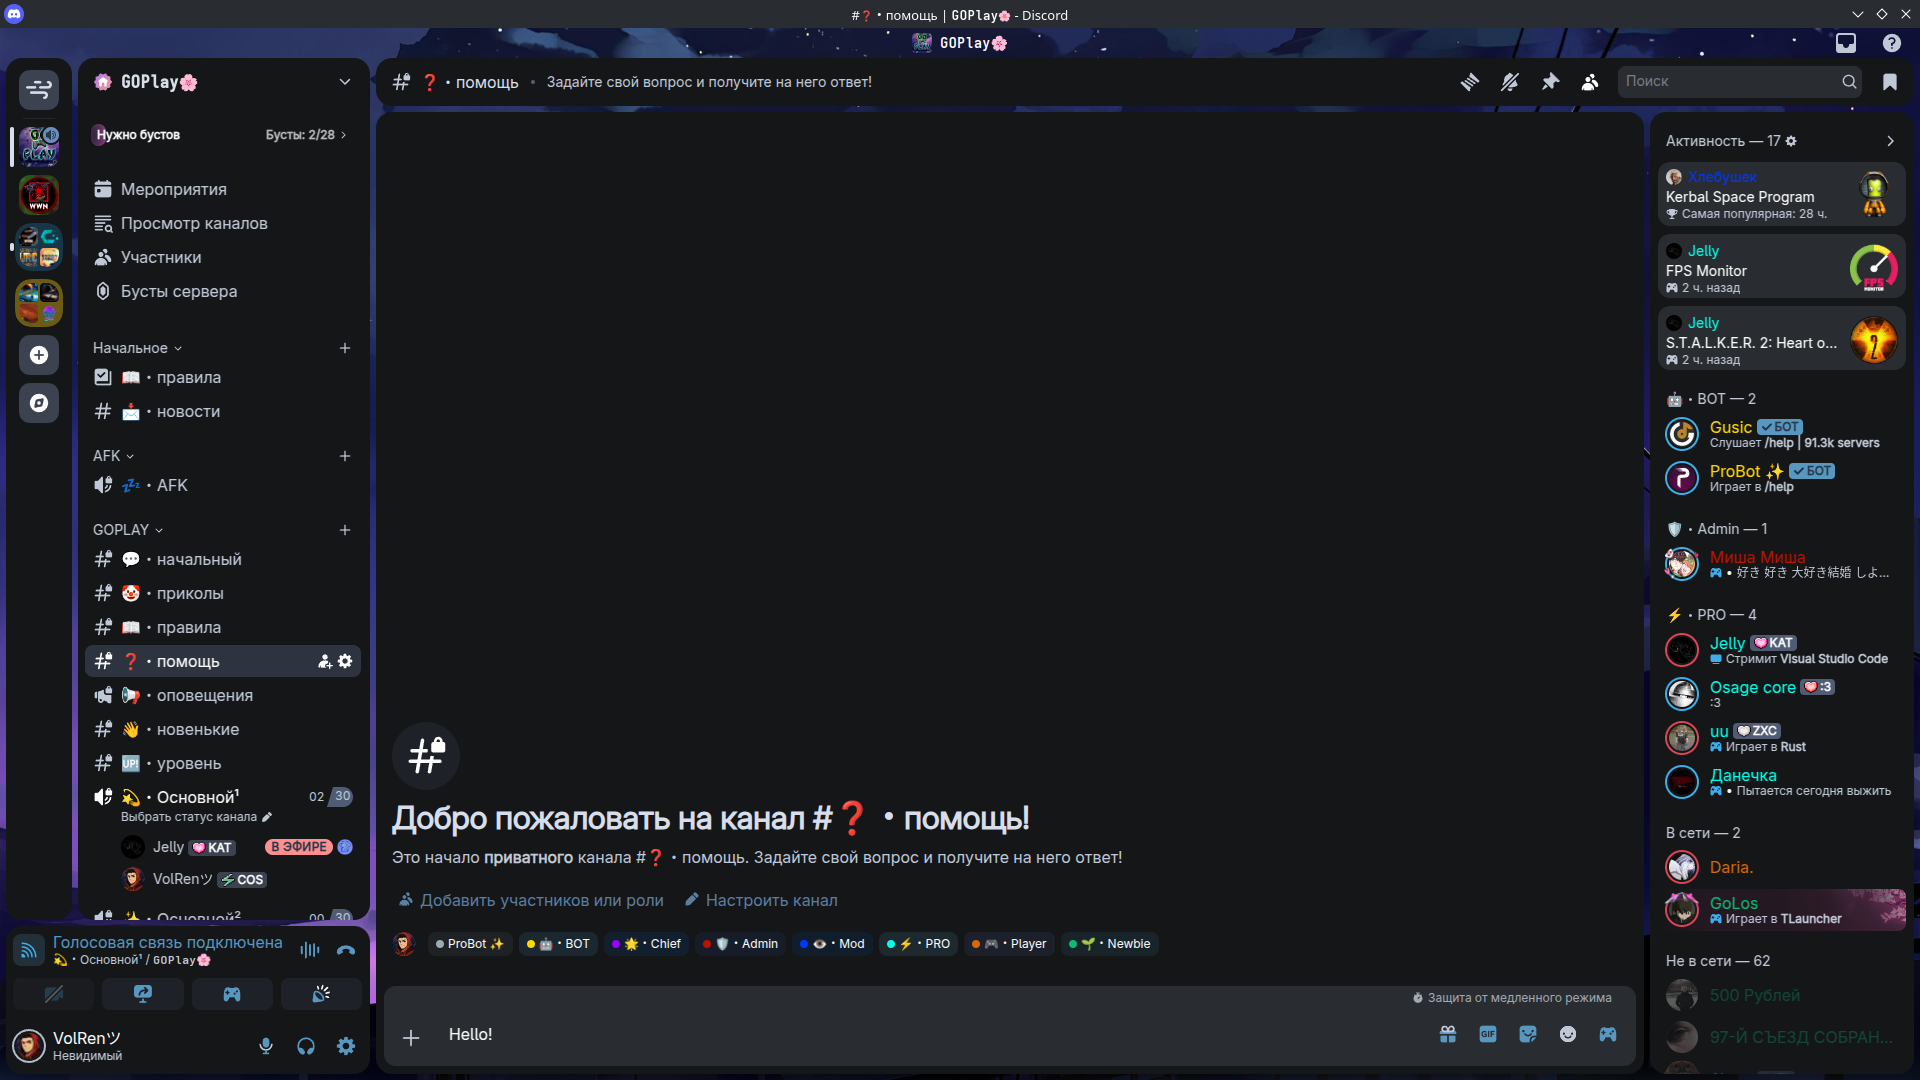
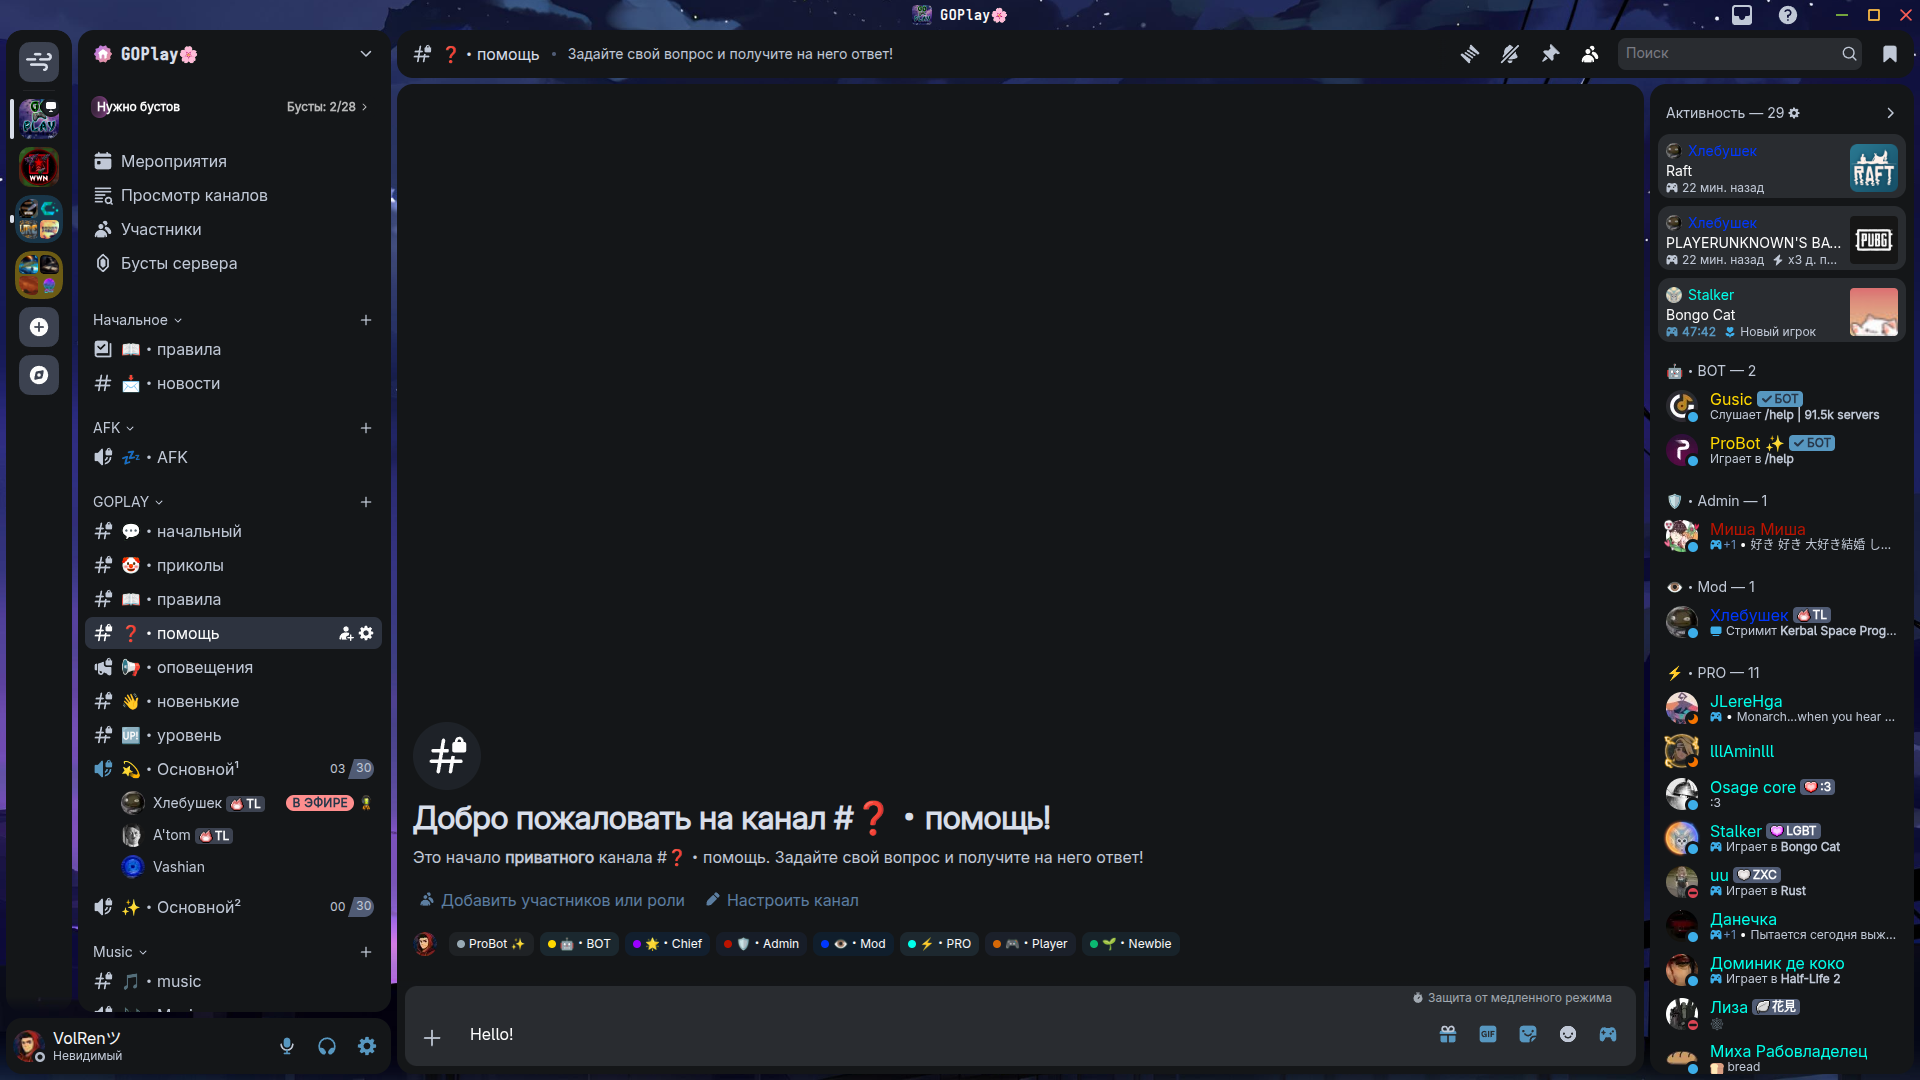
Update

Changed region(s): [[0.0, 0.0, 1.0, 1.0], [0.125, 0.1222, 0.1562, 0.1528], [0.0, 0.9472, 0.0312, 0.9778]]

diff --git a/build/base.css b/build/base.css
@@ -93,7 +93,7 @@ body {
     .wrapper_d852db,
     .wrapper_d852db > .wrapper_fc8177,
     #vc-spotify-player {
-        background: none;
+    background: none;
     }
     .scroller__629e4 {
         margin-bottom: 0;
@@ -659,7 +659,7 @@ body {
         --status-danger: var(--red-2);
         --status-danger-background: var(--red-3);
         --status-danger-text: var(--white);
-        --status-dnd: var(--dnd); /* server profiles */
+        --status-dnd: var(--dnd);
         --status-idle: var(--idle);
         --status-offline: var(--offline);
         --status-online: var(--online);
@@ -999,26 +999,6 @@ body {
         }
         .flash__03436[data-flash=true] {
             background: var(--background-message-highlight);
-        }
-        /* Status indicators */
-        rect[fill='#82838b'], .status_a423bd[style='background-color: rgb(130, 131, 139);'] {
-            fill: var(--offline);
-            background-color: var(--offline) !important;
-        }
-        rect[fill='#43a25a'], path[fill='#43a25a'], .vc-platform-indicator > svg[fill="#43a25a"], .status_a423bd[style='background-color: rgb(67, 162, 90);'], path[fill='var(--status-positive)'] {
-            fill: var(--online);
-            background-color: var(--online) !important;
-        }
-        rect[fill='#ca9654'], .vc-platform-indicator > svg[fill='#ca9654'], .status_a423bd[style='background-color: rgb(202, 150, 84);'] {
-            fill: var(--idle);
-            background-color: var(--idle) !important;
-        }
-        rect[fill='#d83a42'], .vc-platform-indicator > svg[fill='#d83a42'], .status_a423bd[style='background-color: rgb(216, 58, 66);'] {
-            fill: var(--dnd);
-            background-color: var(--dnd) !important;
-        }
-        rect[fill='#9147ff'] {
-            fill: var(--streaming);
         }
         .radioBar__1bda4[style='--radio-bar-accent-color: var(--yellow-360); padding: 10px;'] {
             --radio-bar-accent-color: var(--yellow-2) !important;

diff --git a/RadialStatus.css b/RadialStatus.css
@@ -6,6 +6,11 @@
     --rs-medium-width: 3px;
     --rs-large-width: 4px;
     --rs-avatar-shape: 50%;
+
+    --online: oklch(0.57 0.2344 257.2136);
+    --dnd: oklch(0.56 0.1894 22.5);
+    --idle: oklch(0.84 0.1653 82.59);
+    --offline: oklch(0.79 0.0215 261.76);
 }
 #app-mount .wrapper__44b0c {
     border-radius: var(--rs-avatar-shape);
@@ -68,7 +73,6 @@
     &[fill='#43a25a'] { stroke: var(--online); }
     &[fill='#ca9654'] { stroke: var(--idle); }
     &[fill='#d83a42'] { stroke: var(--dnd); }
-    &[fill='#593695'], &[mask*='streaming'], &[fill*='var(--status-purple'] { stroke: var(--streaming); }
     &[fill='#82838b'] { stroke: var(--offline); }
     &[x='16'] { width: 24px; height: 24px; }
     &[x='28'] { width: 40px; height: 40px; overflow: visible; }

diff --git a/extras/Echo.css b/extras/Echo.css
@@ -2,7 +2,7 @@
  * @name Echo
  * @description Discord theme Echo
  * @author VolRen
- * @version 4.1.0
+ * @version 5.0.0
  * @invite 5CpUtAEhdD
  * @website https://github.com/VolRencs/DisBreeze
  * @source https://github.com/VolRencs/DisBreeze/blob/Main/colors/DisEcho.css
@@ -10,7 +10,6 @@
  * @authorLink https://github.com/VolRencs
  */
 @import url('https://volrencs.github.io/DisBreeze/colors/DisEcho.css');
-@import url('https://volrencs.github.io/DisBreeze/build/RStatus.css');
 
 body {
     --background-image-url: url('https://volrencs.github.io/DisBreeze/assets/background/Echo.png'); /* Замените на свой фон */

diff --git a/extras/Cachy.css b/extras/Cachy.css
@@ -2,7 +2,7 @@
 * @name Cachy
 * @description Discord theme adapted for CachyOS
 * @author VolRen, ptr1337
-* @version 4.1.0
+* @version 5.0.0
 * @invite 5CpUtAEhdD
 * @website https://github.com/VolRencs/DisBreeze
 * @source https://github.com/VolRencs/DisBreeze/blob/Main/colors/DisCachy.css
@@ -10,4 +10,3 @@
 * @authorLink https://github.com/VolRencs
 */
 @import url('https://volrencs.github.io/DisBreeze/colors/DisCachy.css');
-@import url('https://volrencs.github.io/DisBreeze/build/RStatus.css');

diff --git a/Breeze.css b/Breeze.css
@@ -2,7 +2,7 @@
 * @name Breeze
 * @description Discord theme adapted for Breeze
 * @author VolRen
-* @version 4.1.0
+* @version 5.0.0
 * @invite 5CpUtAEhdD
 * @website https://github.com/VolRencs/DisBreeze
 * @source https://github.com/VolRencs/DisBreeze/blob/Main/colors/DisBreeze.css
@@ -10,4 +10,3 @@
 * @authorLink https://github.com/VolRencs
 */
 @import url('https://volrencs.github.io/DisBreeze/colors/DisBreeze.css');
-@import url('https://volrencs.github.io/DisBreeze/build/RStatus.css');

diff --git a/extras/Mango.css b/extras/Mango.css
@@ -2,7 +2,7 @@
 * @name Mango
 * @description Discord theme Mango
 * @author VolRen
-* @version 4.1.0
+* @version 5.0.0
 * @invite 5CpUtAEhdD
 * @website https://github.com/VolRencs/DisBreeze
 * @source https://github.com/VolRencs/DisBreeze/blob/Main/colors/DisMango.css
@@ -10,4 +10,3 @@
 * @authorLink https://github.com/VolRencs
 */
 @import url('https://volrencs.github.io/DisBreeze/colors/DisMango.css');
-@import url('https://volrencs.github.io/DisBreeze/build/RStatus.css');

diff --git a/colors/DisBreeze.css b/colors/DisBreeze.css
@@ -57,7 +57,7 @@ body {
     /* Цвета индикаторов статуса */
     --online: oklch(0.7131 0.1313 236.01);
     --dnd: oklch(0.6045 0.1857 19.16);
-    --idle: oklch(0.7015 0.185565 49.9566);
+    --idle: oklch(0.7264 0.1554 80.47);
     --streaming: oklch(0.49 0.1841 303.85);
     --offline: oklch(0.79 0.0215 261.76);
 }
